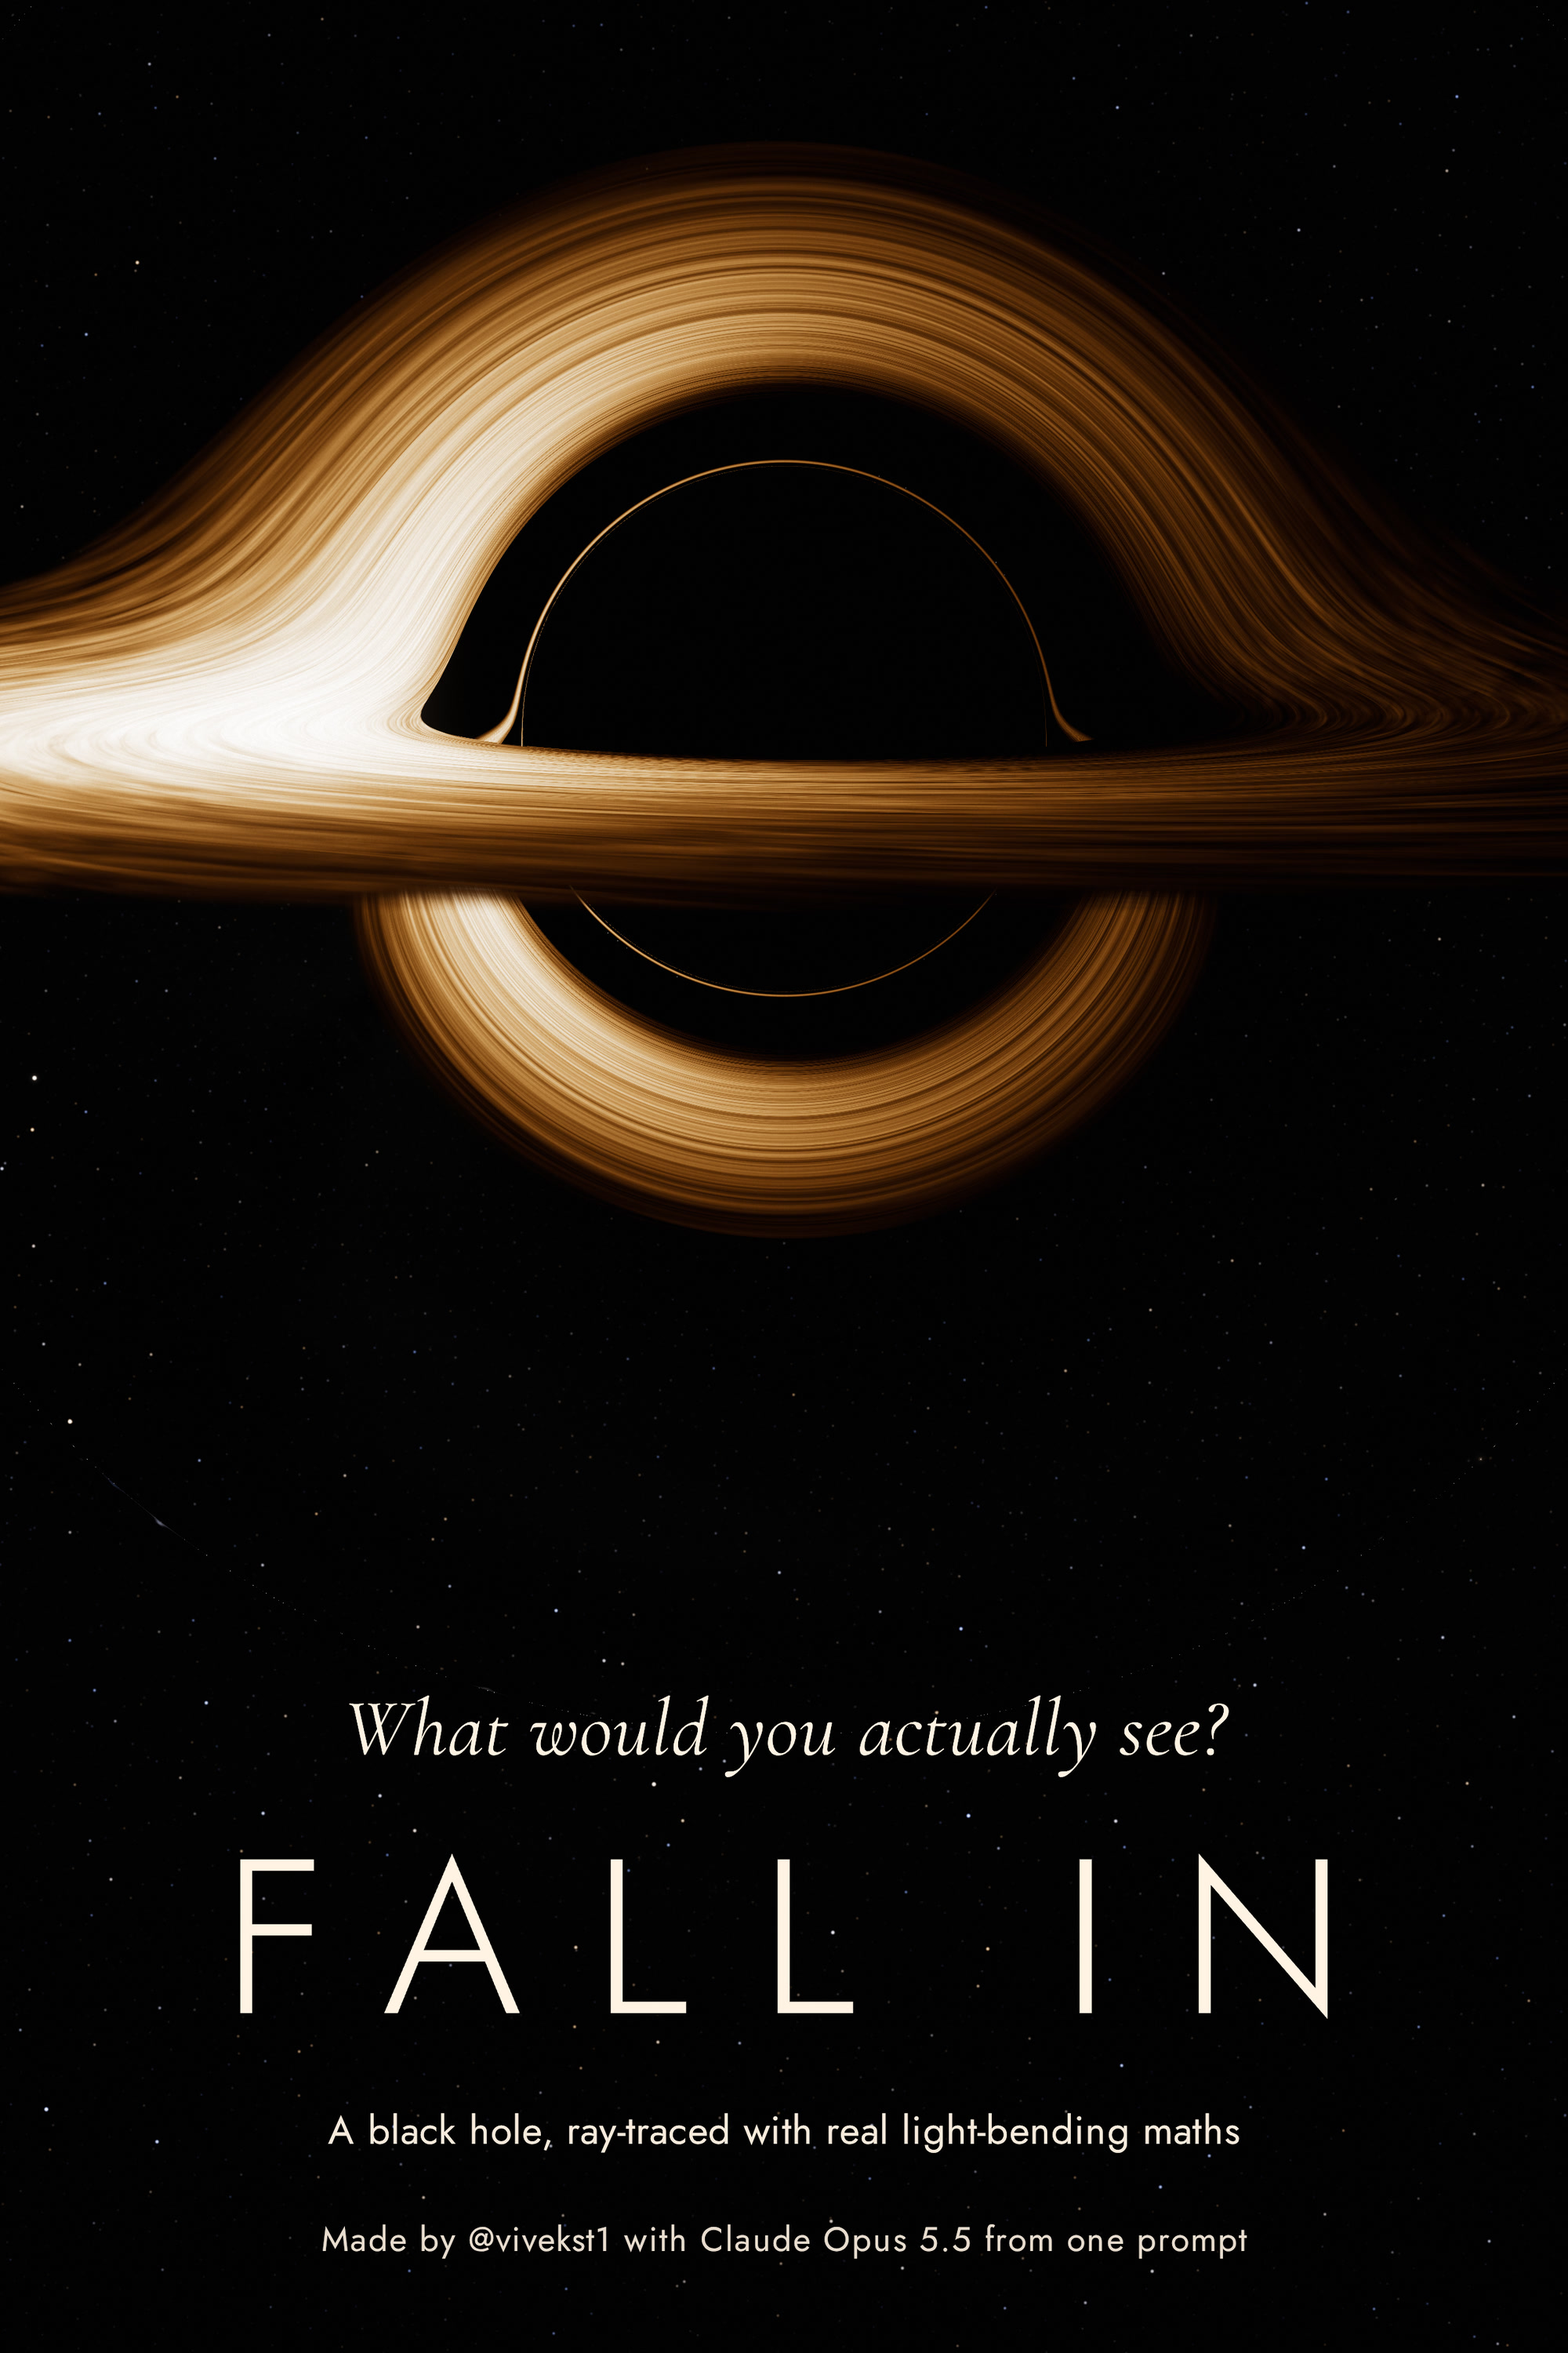
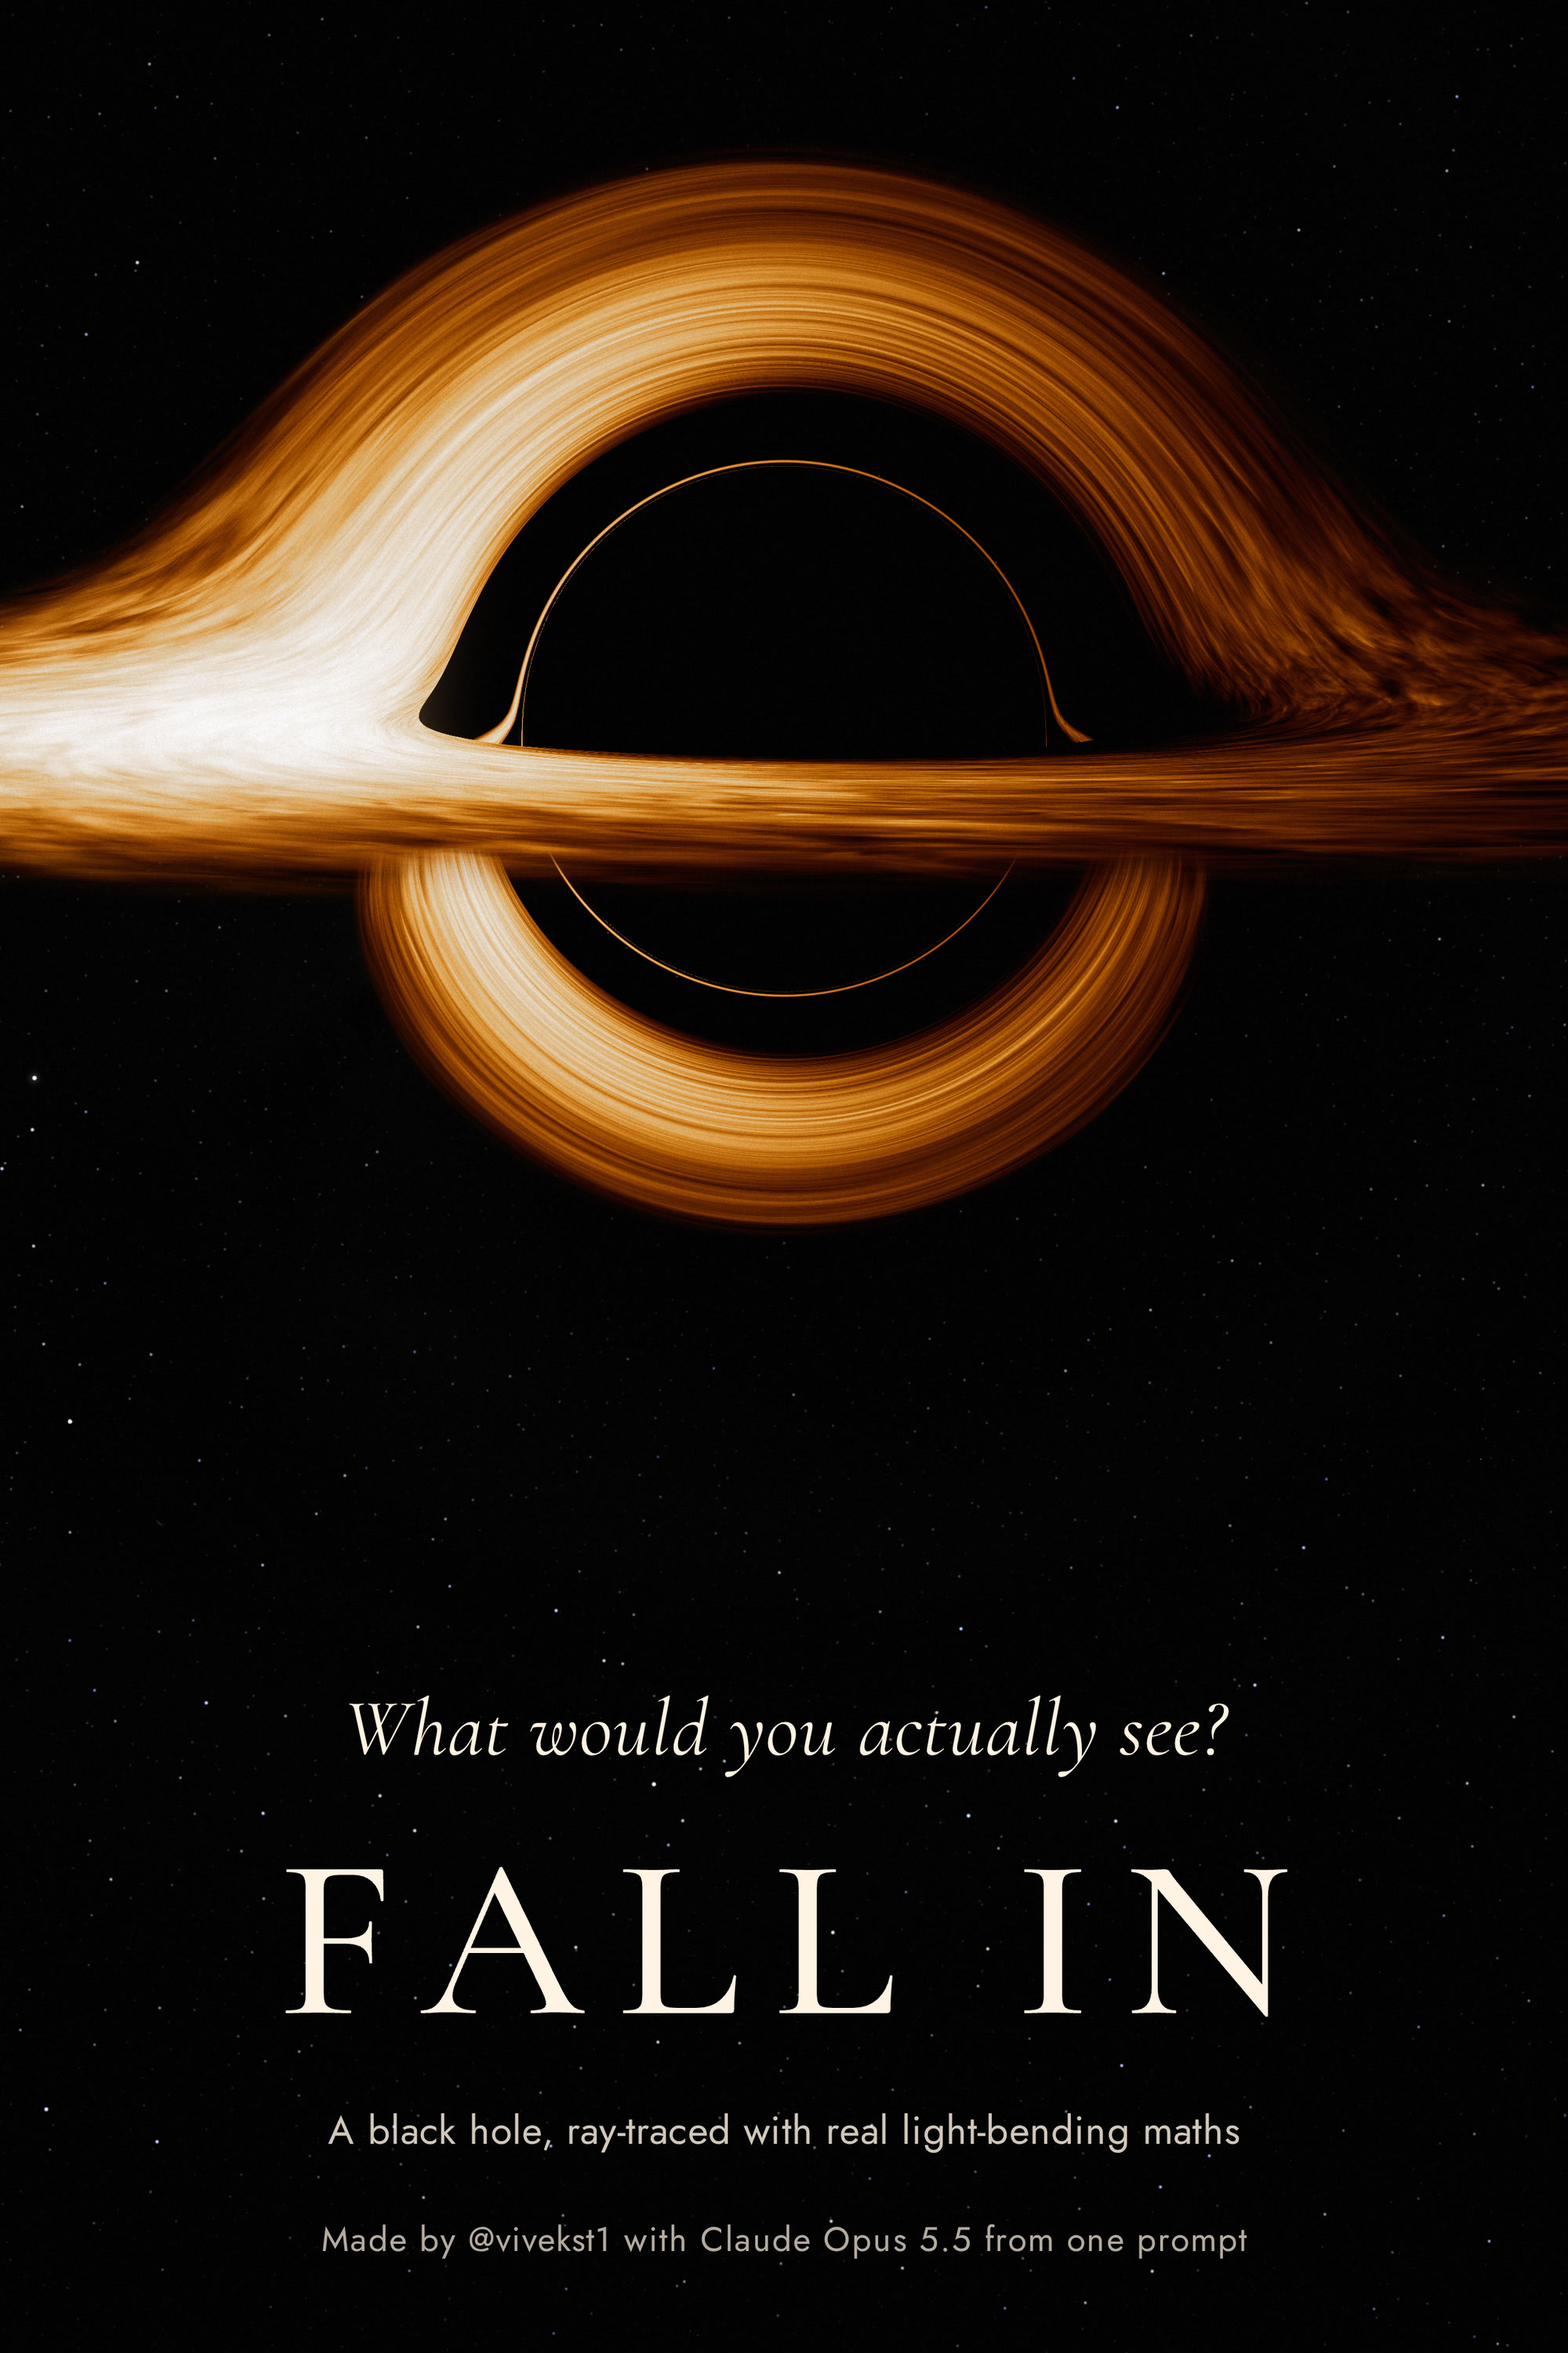
Final deliverables: full-resolution beat stills, contact sheet, poster; README status
Claude-Session: https://claude.ai/code/session_01Wg565WyuBYBgwAWW9vceB1

diff --git a/README.md b/README.md
@@ -10,6 +10,14 @@ gravitational redshift; the starfield is lensed by the same rays. The score is s
 * `DECISIONS.md` — every decision made along the way, including the review-round findings
 * `film/out/` — deliverables (stills, contact sheet, poster, preview, score) and, after you render, `film_16x9.mp4`
 
+**Status.** Everything except the full-quality film is rendered and in `film/out/`: one 1920×1080 still per beat
+(`stills/`), a contact sheet (`contact_sheet.jpg`, one frame every 2 s), a portrait poster (`poster.jpg`), a
+640×360 preview with the score (`preview_640x360.mp4`) and the score itself (`score.wav`, −14 LUFS, −1.5 dBTP).
+The 1920×1080 master is not in the repository: one full-quality frame takes 35 s to 5 minutes in this repository's
+GPU-less build container, so the film is meant to be rendered on your machine with `npm run render` (below).
+It went through 15 rounds of review by a fresh "art director" agent that never saw the code; every finding and
+fix is logged in `DECISIONS.md`.
+
 ## Render the film on your computer (GPU)
 
 Requirements: Node.js 18+ (tested on 22), a GPU with working WebGL2 in Chrome, ~6 GB free disk while rendering.
@@ -69,6 +77,10 @@ hashing, so the same `t` gives the same image on any machine.
 
 ## How it works
 
+* **Diagrams** (`film/src/overlay.js`) are traced with the same physics: the photon-sphere rays in u(φ) (at
+  b = √27 M (1 + 2.8 × 10⁻⁷) the ray really laps the sphere ≈ 1.9 times within 0.0013 M of r = 3M), the ISCO paths
+  as timelike geodesics. Every frame's text layer is checked by `film/scripts/layout.mjs` (no label touches a path
+  or another label; everything inside title-safe).
 * **Light paths** (`film/src/shaders/scene.js`). Each pixel's ray lies in a plane through the hole, where the photon
   orbit obeys `u'' = 3Mu² − u` (u = 1/r). It is integrated with RK4 in φ with adaptive steps (fine near the photon
   sphere); disk crossings and the escape direction are found exactly on the cubic Hermite interpolant of the RK4
